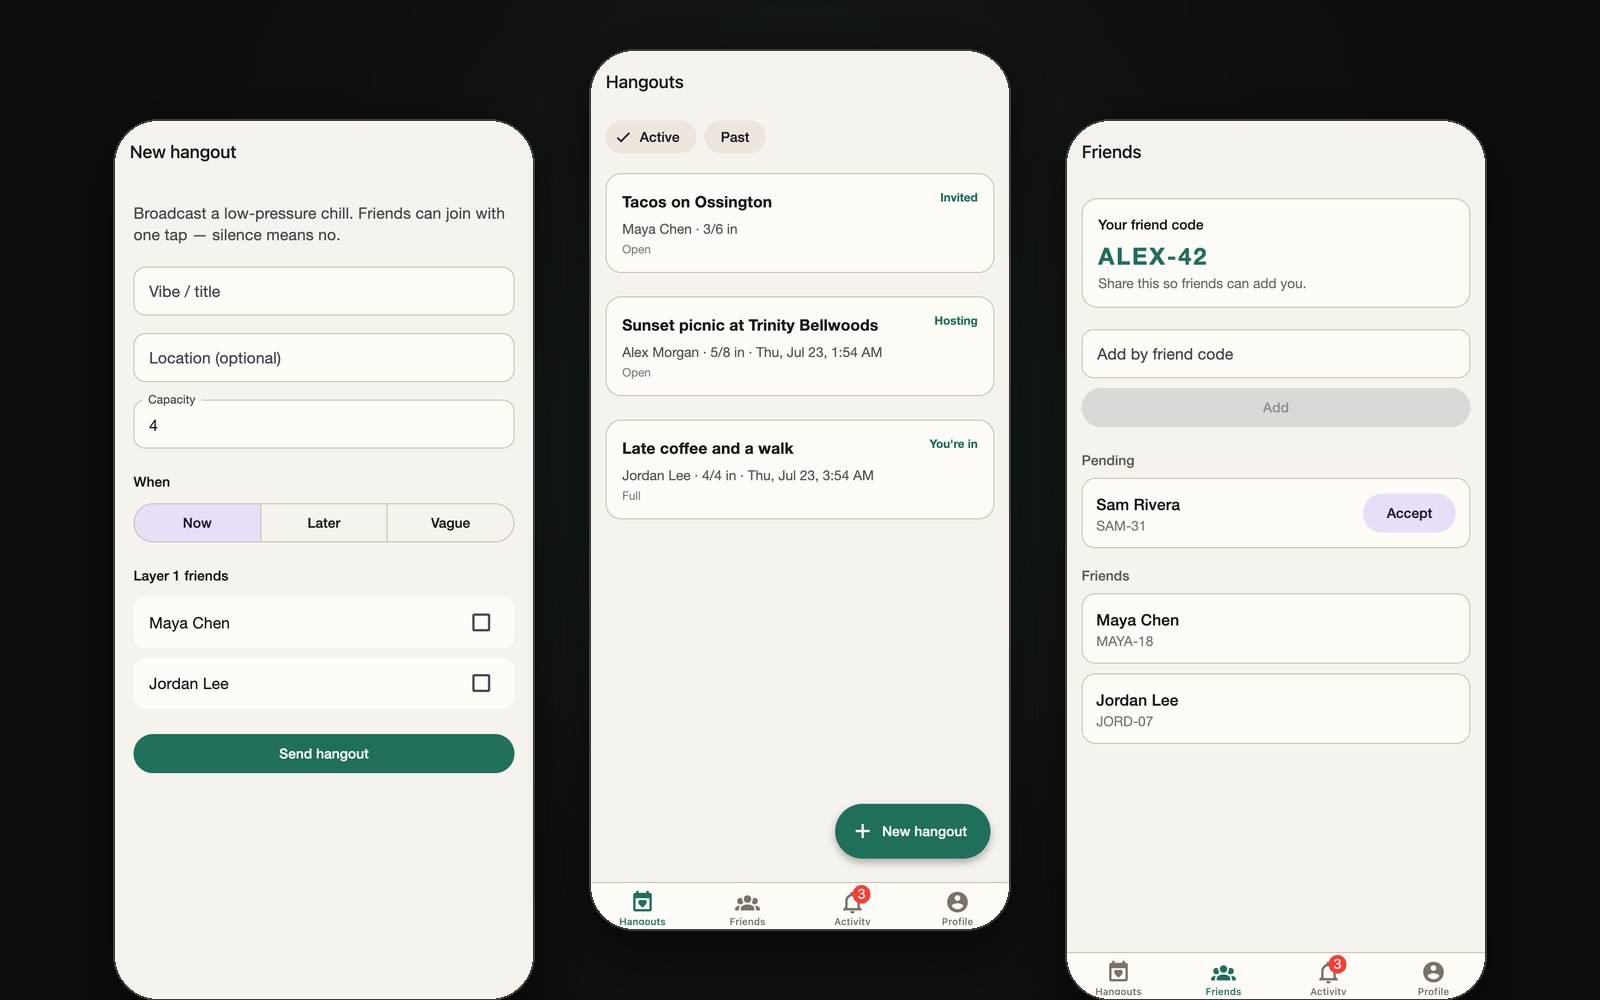
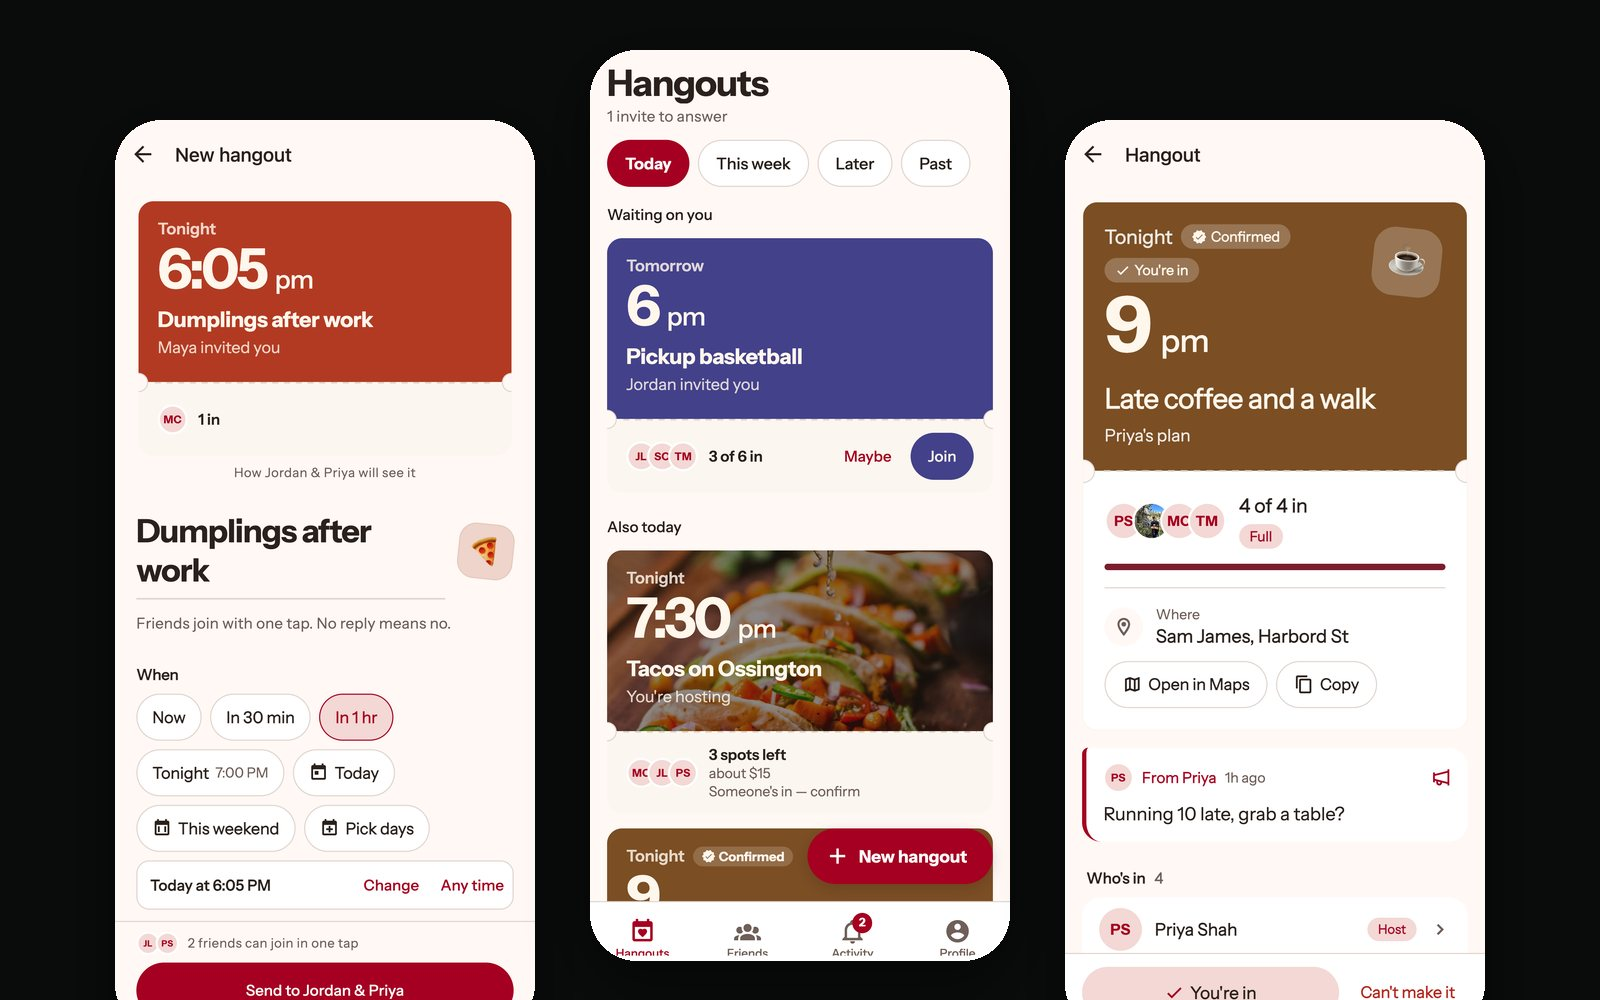
Update Link for the ticket redesign.
New cover from the redesigned feed, new-plan and plan screens, a
rewritten description, and a case study covering the ticket design,
the five-tap send flow and the Postgres-side privacy rules.

diff --git a/src/data/projects.js b/src/data/projects.js
@@ -388,13 +388,21 @@ export const projects = [
     category: 'personal',
     featured: false,
     hasCaseStudy: false,
-    status: 'In progress',
+    status: 'Alpha',
     tag: 'React Native · Supabase',
-    line: 'Hangouts without the group chat.',
+    line: 'Make a plan. Friends tap to join.',
     description:
-      'Alpha mobile app for short-notice plans. A host sends a hangout to a few friends, people join in one tap, and silence counts as a no. React Native and Supabase.',
+      'Mobile app for short-notice plans. Every plan is a ticket: the time up top, who\'s in on the stub, and one button to join. Friends tap in until it\'s full, and no reply means no. React Native and Supabase, in alpha on TestFlight.',
     skills: ['React Native', 'Expo', 'TypeScript', 'Supabase'],
     img: imgLink,
+    caseStudy: {
+      problem:
+        'Small plans die in the group chat. Someone floats an idea, it turns into a poll, half the people never answer, and by the time it\'s settled the evening is gone.',
+      built:
+        'An Expo app on Supabase. A host picks a time with quick chips (now, in 30 minutes, tonight) and sends the plan to a few friends in about five taps, with a live preview of the ticket they\'ll see. Join, Maybe, and leave update instantly and roll back if the server says no. Postgres does the gatekeeping: invitees only see the place and time once they join, writes go through security-definer functions, and a realtime signal table refreshes everyone\'s screens. Friends connect through a personal invite link that unfurls in iMessage, and push notifications go out through an Edge Function worker with retries.',
+      outcome:
+        'Version 1.1 is a full redesign around the ticket, from the feed to sign-in, and it\'s in alpha on TestFlight. Next on the roadmap: sharing plans straight into group chats, saved groups, and stickers.',
+    },
   },
   {
     slug: 'myfi',
